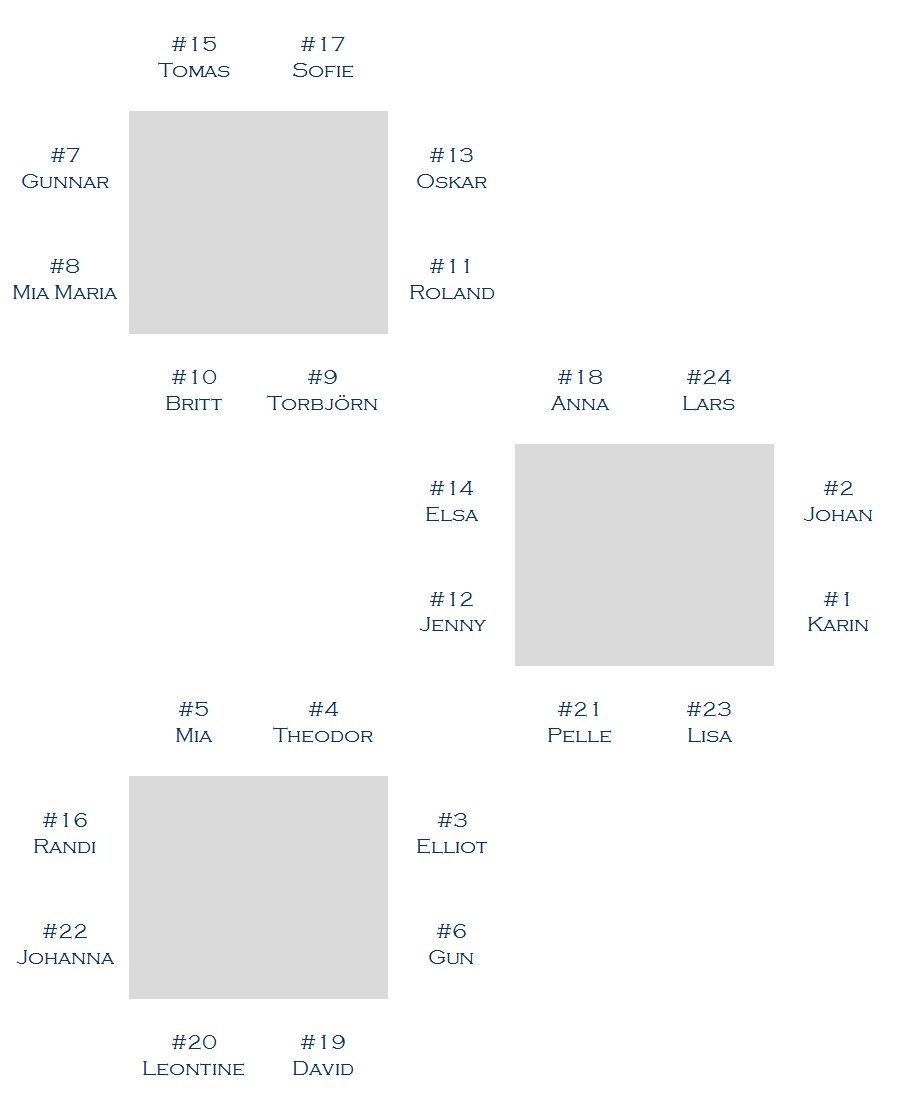
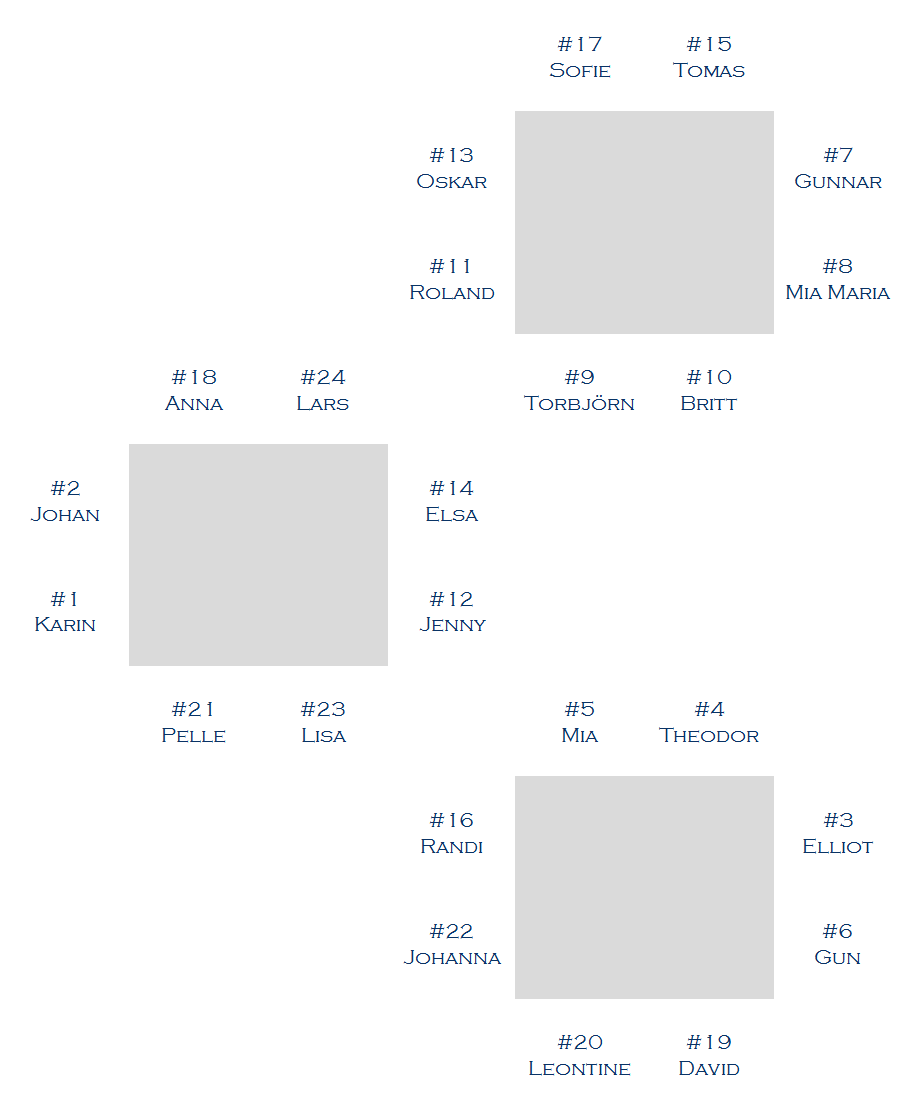
Final adjustments

diff --git a/bordsplaceringskort.html b/bordsplaceringskort.html
@@ -14,39 +14,39 @@
 	<body id="page-top">
 
 		<div class="placement-sheet">
-			<div class="placement-card"><div class="container text-center"><p class="lead"><img src="img/hearts.png" alt="Hearts"></p><h1><div class="mt-3">Johan Örtenholm</div></h1></div></div>
-			<div class="placement-card"><div class="container text-center"><p class="lead"><img src="img/hearts.png" alt="Hearts"></p><h1><div class="mt-3">Karin Örtenholm</div></h1></div></div>
-			<div class="placement-card"><div class="container text-center"><p class="lead"><img src="img/hearts.png" alt="Hearts"></p><h1><div class="mt-3">Theodor Örtenholm</div></h1></div></div>
-			<div class="placement-card"><div class="container text-center"><p class="lead"><img src="img/hearts.png" alt="Hearts"></p><h1><div class="mt-3">Elliot Örtenholm</div></h1></div></div>
+			<div class="placement-card"><div class="text-center"><p class="lead"><img src="img/hearts.png" alt="Hearts"></p><h1><div class="mt-3">Johan Örtenholm</div></h1></div></div>
+			<div class="placement-card"><div class="text-center"><p class="lead"><img src="img/hearts.png" alt="Hearts"></p><h1><div class="mt-3">Karin Örtenholm</div></h1></div></div>
+			<div class="placement-card"><div class="text-center"><p class="lead"><img src="img/hearts.png" alt="Hearts"></p><h1><div class="mt-3">Theodor Örtenholm</div></h1></div></div>
+			<div class="placement-card"><div class="text-center"><p class="lead"><img src="img/hearts.png" alt="Hearts"></p><h1><div class="mt-3">Elliot Örtenholm</div></h1></div></div>
 			
-			<div class="placement-card"><div class="container text-center"><p class="lead"><img src="img/hearts.png" alt="Hearts"></p><h1><div class="mt-3">Mia Örtenholm</div></h1></div></div>
+			<div class="placement-card"><div class="text-center"><p class="lead"><img src="img/hearts.png" alt="Hearts"></p><h1><div class="mt-3">Mia Örtenholm</div></h1></div></div>
 			
-			<div class="placement-card"><div class="container text-center"><p class="lead"><img src="img/hearts.png" alt="Hearts"></p><h1><div class="mt-3">Gun Nordberg</div></h1></div></div>
+			<div class="placement-card"><div class="text-center"><p class="lead"><img src="img/hearts.png" alt="Hearts"></p><h1><div class="mt-3">Gun Nordberg</div></h1></div></div>
 
-			<div class="placement-card"><div class="container text-center"><p class="lead"><img src="img/hearts.png" alt="Hearts"></p><h1><div class="mt-3">Gunnar Nilsson</div></h1></div></div>
-			<div class="placement-card"><div class="container text-center"><p class="lead"><img src="img/hearts.png" alt="Hearts"></p><h1><div class="mt-3">Mia Maria Rosenquis</div></h1></div></div>
+			<div class="placement-card"><div class="text-center"><p class="lead"><img src="img/hearts.png" alt="Hearts"></p><h1><div class="mt-3">Gunnar Nilsson</div></h1></div></div>
+			<div class="placement-card"><div class="text-center"><p class="lead"><img src="img/hearts.png" alt="Hearts"></p><h1><div class="mt-3">Mia Maria Rosenquis</div></h1></div></div>
 
-			<div class="placement-card"><div class="container text-center"><p class="lead"><img src="img/hearts.png" alt="Hearts"></p><h1><div class="mt-3">Torbjörn Larsson</div></h1></div></div>
-			<div class="placement-card"><div class="container text-center"><p class="lead"><img src="img/hearts.png" alt="Hearts"></p><h1><div class="mt-3">Britt Tham</div></h1></div></div>
+			<div class="placement-card"><div class="text-center"><p class="lead"><img src="img/hearts.png" alt="Hearts"></p><h1><div class="mt-3">Torbjörn Larsson</div></h1></div></div>
+			<div class="placement-card"><div class="text-center"><p class="lead"><img src="img/hearts.png" alt="Hearts"></p><h1><div class="mt-3">Britt Tham</div></h1></div></div>
 			
-			<div class="placement-card"><div class="container text-center"><p class="lead"><img src="img/hearts.png" alt="Hearts"></p><h1><div class="mt-3">Roland Nilsson</div></h1></div></div>
-			<div class="placement-card"><div class="container text-center"><p class="lead"><img src="img/hearts.png" alt="Hearts"></p><h1><div class="mt-3">Jenny Fändriks</div></h1></div></div>
-			<div class="placement-card"><div class="container text-center"><p class="lead"><img src="img/hearts.png" alt="Hearts"></p><h1><div class="mt-3">Oskar Nilsson</div></h1></div></div>
-			<div class="placement-card"><div class="container text-center"><p class="lead"><img src="img/hearts.png" alt="Hearts"></p><h1><div class="mt-3">Elsa Nilsson</div></h1></div></div>
+			<div class="placement-card"><div class="text-center"><p class="lead"><img src="img/hearts.png" alt="Hearts"></p><h1><div class="mt-3">Roland Nilsson</div></h1></div></div>
+			<div class="placement-card"><div class="text-center"><p class="lead"><img src="img/hearts.png" alt="Hearts"></p><h1><div class="mt-3">Jenny Fändriks</div></h1></div></div>
+			<div class="placement-card"><div class="text-center"><p class="lead"><img src="img/hearts.png" alt="Hearts"></p><h1><div class="mt-3">Oskar Nilsson</div></h1></div></div>
+			<div class="placement-card"><div class="text-center"><p class="lead"><img src="img/hearts.png" alt="Hearts"></p><h1><div class="mt-3">Elsa Nilsson</div></h1></div></div>
 			
-			<div class="placement-card"><div class="container text-center"><p class="lead"><img src="img/hearts.png" alt="Hearts"></p><h1><div class="mt-3">Ulf Tomas Hansen</div></h1></div></div>
-			<div class="placement-card"><div class="container text-center"><p class="lead"><img src="img/hearts.png" alt="Hearts"></p><h1><div class="mt-3">Randi Hansen</div></h1></div></div>
-			<div class="placement-card"><div class="container text-center"><p class="lead"><img src="img/hearts.png" alt="Hearts"></p><h1><div class="mt-3">Sofie Hansen</div></h1></div></div>
+			<div class="placement-card"><div class="text-center"><p class="lead"><img src="img/hearts.png" alt="Hearts"></p><h1><div class="mt-3">Ulf Tomas Hansen</div></h1></div></div>
+			<div class="placement-card"><div class="text-center"><p class="lead"><img src="img/hearts.png" alt="Hearts"></p><h1><div class="mt-3">Randi Hansen</div></h1></div></div>
+			<div class="placement-card"><div class="text-center"><p class="lead"><img src="img/hearts.png" alt="Hearts"></p><h1><div class="mt-3">Sofie Hansen</div></h1></div></div>
 			
-			<div class="placement-card"><div class="container text-center"><p class="lead"><img src="img/hearts.png" alt="Hearts"></p><h1><div class="mt-3">Anna Nordberg</div></h1></div></div>
-			<div class="placement-card"><div class="container text-center"><p class="lead"><img src="img/hearts.png" alt="Hearts"></p><h1><div class="mt-3">David Nordberg</div></h1></div></div>
-			<div class="placement-card"><div class="container text-center"><p class="lead"><img src="img/hearts.png" alt="Hearts"></p><h1><div class="mt-3">Leontine Nordberg</div></h1></div></div>
+			<div class="placement-card"><div class="text-center"><p class="lead"><img src="img/hearts.png" alt="Hearts"></p><h1><div class="mt-3">Anna Nordberg</div></h1></div></div>
+			<div class="placement-card"><div class="text-center"><p class="lead"><img src="img/hearts.png" alt="Hearts"></p><h1><div class="mt-3">David Nordberg</div></h1></div></div>
+			<div class="placement-card"><div class="text-center"><p class="lead"><img src="img/hearts.png" alt="Hearts"></p><h1><div class="mt-3">Leontine Nordberg</div></h1></div></div>
 			
-			<div class="placement-card"><div class="container text-center"><p class="lead"><img src="img/hearts.png" alt="Hearts"></p><h1><div class="mt-3">Johanna Tiger</div></h1></div></div>
-			<div class="placement-card"><div class="container text-center"><p class="lead"><img src="img/hearts.png" alt="Hearts"></p><h1><div class="mt-3">Per Larsson</div></h1></div></div>
+			<div class="placement-card"><div class="text-center"><p class="lead"><img src="img/hearts.png" alt="Hearts"></p><h1><div class="mt-3">Johanna Tiger</div></h1></div></div>
+			<div class="placement-card"><div class="text-center"><p class="lead"><img src="img/hearts.png" alt="Hearts"></p><h1><div class="mt-3">Per Larsson</div></h1></div></div>
 			
-			<div class="placement-card"><div class="container text-center"><p class="lead"><img src="img/hearts.png" alt="Hearts"></p><h1><div class="mt-3">Lisa Hedberg</div></h1></div></div>
-			<div class="placement-card"><div class="container text-center"><p class="lead"><img src="img/hearts.png" alt="Hearts"></p><h1><div class="mt-3">Lars Johnson</div></h1></div></div>
+			<div class="placement-card"><div class="text-center"><p class="lead"><img src="img/hearts.png" alt="Hearts"></p><h1><div class="mt-3">Lisa Hedberg</div></h1></div></div>
+			<div class="placement-card"><div class="text-center"><p class="lead"><img src="img/hearts.png" alt="Hearts"></p><h1><div class="mt-3">Lars Johnson</div></h1></div></div>
 		
 		</div>
 		<script src="js/jquery-3.3.1.min.js"></script>

diff --git a/middagsfolder.html b/middagsfolder.html
@@ -52,27 +52,27 @@
 			</div>
 			<div class="dinner-folder-page">
 				<div class="guest-card"><div class="guest-name">#18 Anna Nordberg</div><div class="guest-description">
-					Storasyster till brudgummen. Gift med nr 19 och mamma till nr 20. Arbetar som managementkonsult, kunnig om vin och oerhört duktig på att laga mat. 
+					Storasyster till brudgummen. Gift med nr 19 och mamma till Leontine. Arbetar som managementkonsult, kunnig om vin och oerhört duktig på att laga mat. 
 					Har en gång prytt lokaltidningens förstasida med rubriken “Jag gillar att bestämma”.
 				</div></div>
 				<div class="guest-card"><div class="guest-name">#19 David Nordberg</div><div class="guest-description">
-					Gift med nr 18 och far till nr 20. Har eget företag gånger två och dömer körtävlingar (häst och vagn). Gillar att gå runt med motor- eller röjsåg i handen.
+					Gift med nr 18 och far till Leontine. Har eget företag gånger två och dömer körtävlingar (häst och vagn). Gillar att gå runt med motor- eller röjsåg i handen.
 				</div></div>
-				<div class="guest-card"><div class="guest-name">#20 Leontine Nordberg</div><div class="guest-description">
+				<!--div class="guest-card"><div class="guest-name">#20 Leontine Nordberg</div><div class="guest-description">
 					Dotter till nr 18 och 19. Tycker om att bestämma och äter ost.
-				</div></div>
-				<div class="guest-card"><div class="guest-name">#21 Per Larsson</div><div class="guest-description">
-					Tvillingbror till brudgummen, sambo med nr 22. Far till Winston och Milo. Bor i Solna, ett par stenkast från brudparet. 
+				</div></div-->
+				<div class="guest-card"><div class="guest-name">#20 Per Larsson</div><div class="guest-description">
+					Tvillingbror till brudgummen, sambo med nr 21. Far till Winston och Milo. Bor i Solna, ett par stenkast från brudparet. 
 					Arbetar som invecklare för utvecklare. Tycker om dessertvin och gör väldigt god Caipirinha. 
 				</div></div>
-				<div class="guest-card"><div class="guest-name">#22 Johanna Tiger</div><div class="guest-description">
-					Sambo med nr 21, mamma till Winston och Milo. Ursprungligen från Västerås. Studerar till tandsköterska. 
+				<div class="guest-card"><div class="guest-name">#21 Johanna Tiger</div><div class="guest-description">
+					Sambo med nr 20, mamma till Winston och Milo. Ursprungligen från Västerås. Studerar till tandsköterska. 
 					Väldigt snäll och omtänksam, men kan inte hålla sig för skratt när människor ramlar. Har ett väldigt bra efternamn.
 				</div></div>
-				<div class="guest-card"><div class="guest-name">#23 Lisa Hedberg</div><div class="guest-description">
+				<div class="guest-card"><div class="guest-name">#22 Lisa Hedberg</div><div class="guest-description">
 					Brudens vän. Bor i Falun. Lärde känna bruden i barndomen i stallet och har bland annat agerat hästskötare vid tävling. Mamma till Minna och Alexander.
 				</div></div>
-				<div class="guest-card"><div class="guest-name">#24 Lars Johnson</div><div class="guest-description">
+				<div class="guest-card"><div class="guest-name">#23 Lars Johnson</div><div class="guest-description">
 					Brudgummens vän. Bor i Västerås. Lärde känna brudgummen under gymnasietiden i Bollnäs. 
 					Tävlingsmänniska med ursprung i alpint och golf. 
 					Driver numera mikrobryggeri i badkaret och nr 2 hyser fortfarande en förhoppning att produktionen i framtiden blir whisky istället för öl. 

diff --git a/css/koj.css b/css/koj.css
@@ -68,22 +68,23 @@ a:not(.navbar-brand) {
 	box-sizing: border-box;
 }
 .placement-sheet {
-	width: 445.5mm;
+	width: 432.0mm;
 }
 .placement-card {
-	width: calc(445.5mm / 3);
+	width: calc(432.0mm / 3);
 	height: 50mm;
 	min-height: 0;
-	padding: 20px 0;
+	padding: 40px 0;
 	display: block;
 	float: left;
 	clear: none;
 	border: 1px solid gray;
-	height: calc(314.5mm / 5);
+	height: calc((301.39mm / 4) + 0.05mm);
+	border-collapse: collapse;
 }
 .placement-card .lead {
 	margin: 0;
-	width: calc(445.5mm / 3);
+	width: calc(432.0mm / 3);
 	text-align: center;
 }
 .placement-card .lead img {
@@ -99,21 +100,21 @@ a:not(.navbar-brand) {
 .placement-card h1,
 .placement-card h1 div
 {
-	width: calc(445.5mm / 3);
+	width: calc(432.0mm / 3);
 	text-align: center;
 }
 
 .dinner-folder-page
 {
 	min-height: 0;
-	width: calc(445.5mm / 2);
-	height: calc(314.5mm / 1);
+	width: calc(432.0mm / 2);
+	height: calc(301.39mm / 1);
 }
 
 .dinner-folder-page div,
 .dinner-folder-page p
 {
-	width: calc(445.5mm / 2);
+	width: calc(432.0mm / 2);
 }
 
 .dinner-folder-page h1 div {
@@ -128,11 +129,11 @@ a:not(.navbar-brand) {
 }
 
 .dinner-folder-page .guest-card {
-	width: calc(445.5mm / 2);
+	width: calc(432.0mm / 2);
 	padding-top: 10mm;
 }
 .dinner-folder-page .guest-card:first-of-type {
-	padding-top: 40mm;
+	padding-top: 30mm;
 }
 
 .dinner-folder-page .guest-name
@@ -149,8 +150,8 @@ a:not(.navbar-brand) {
 }
 .dinner-folder-page .image
 {
-	width: calc((445.5mm - 20mm) / 2);
-	height: calc(314.5mm - 20.0mm / 1);
+	width: calc((432.0mm / 2) - 20mm);
+	height: calc((301.39mm / 1) - 20.0mm);
 	background-position: center; 
 	background-repeat: no-repeat; 
 	background-size: contain;
